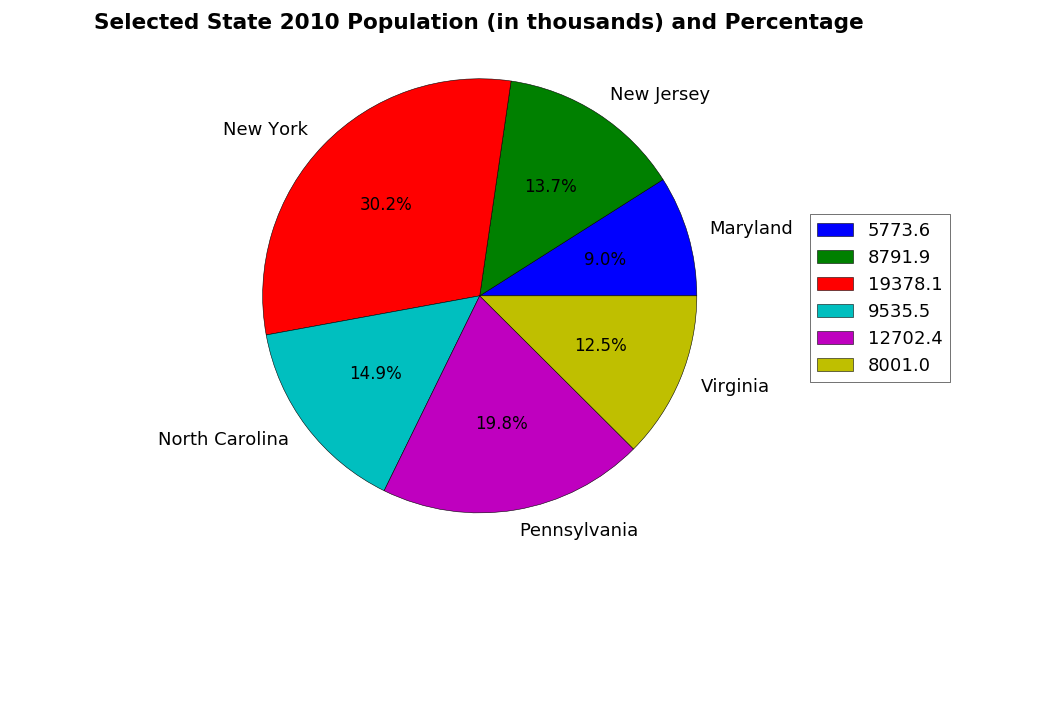
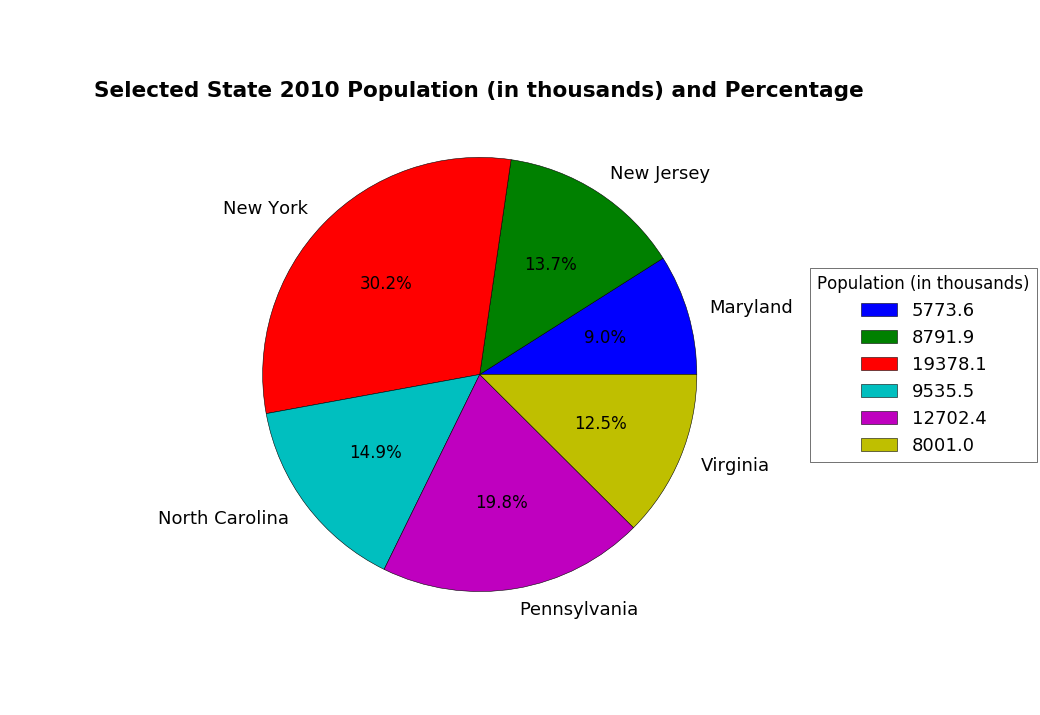
adjust pie chart
adjust pie chart title spacing. add legend title. add new image

diff --git a/pie_chart.py b/pie_chart.py
@@ -48,19 +48,23 @@ ax1.pie(sizes,
 # Remove weird default pie chart tilt.
 plt.axis('equal')
 
+# Adjust plot title spacing.
+ax1.title.set_position([0.5, 0.9])
+
 # Set plot titles.
 plt.title('Selected State 2010 Population (in thousands) and Percentage',
           fontweight = 'bold')
 
 # Adjust plot margins.
 plt.subplots_adjust(left = 0.25,
-                    bottom = 0.22,
+                    bottom = 0.0,
                     right = 0.67,
                     top = 0.95)
 
 # Add legend.
-plt.legend(labels = census_subset['2010'].round(1),
-           bbox_to_anchor = (1.6, 0.675))
+plt.legend(title = 'Population (in thousands)',
+           labels = census_subset['2010'].round(1),
+           bbox_to_anchor = (1.8, 0.6721))
 
 # Show plot.
 plt.show()
